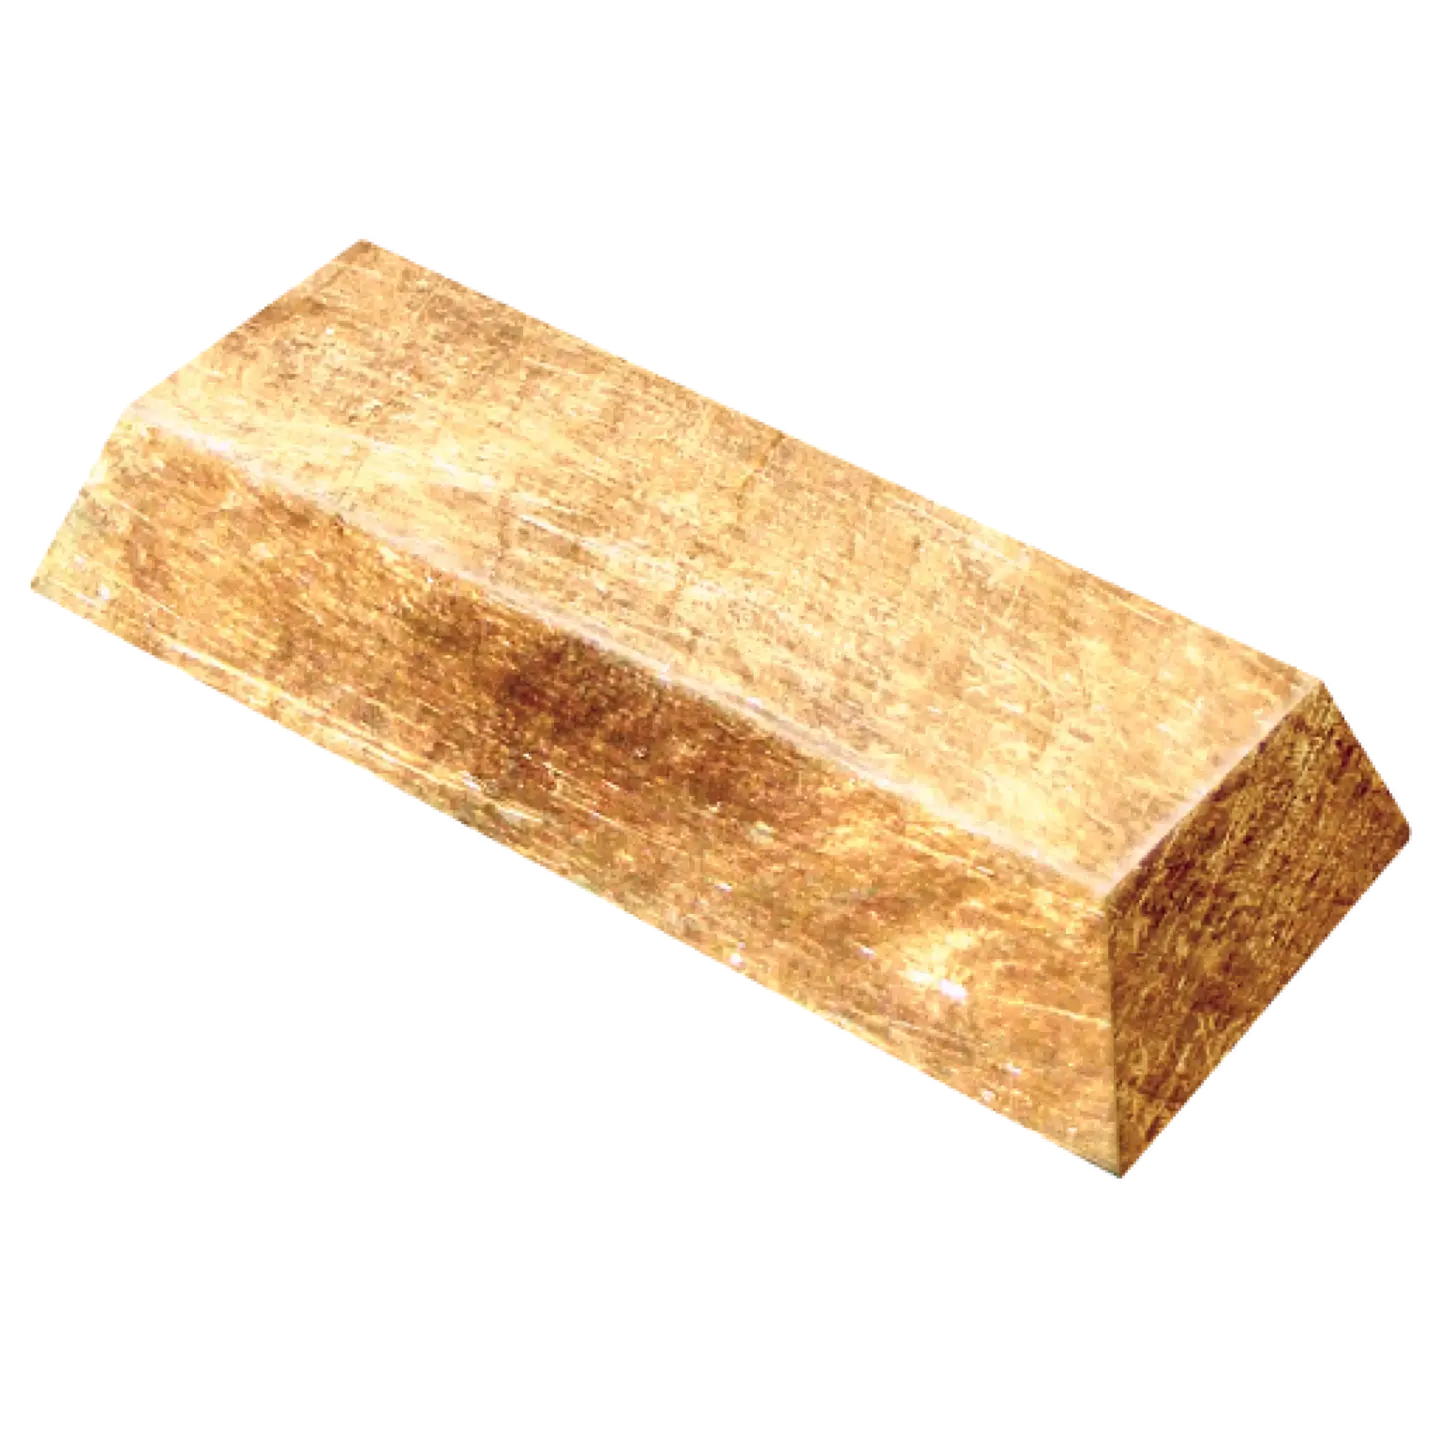
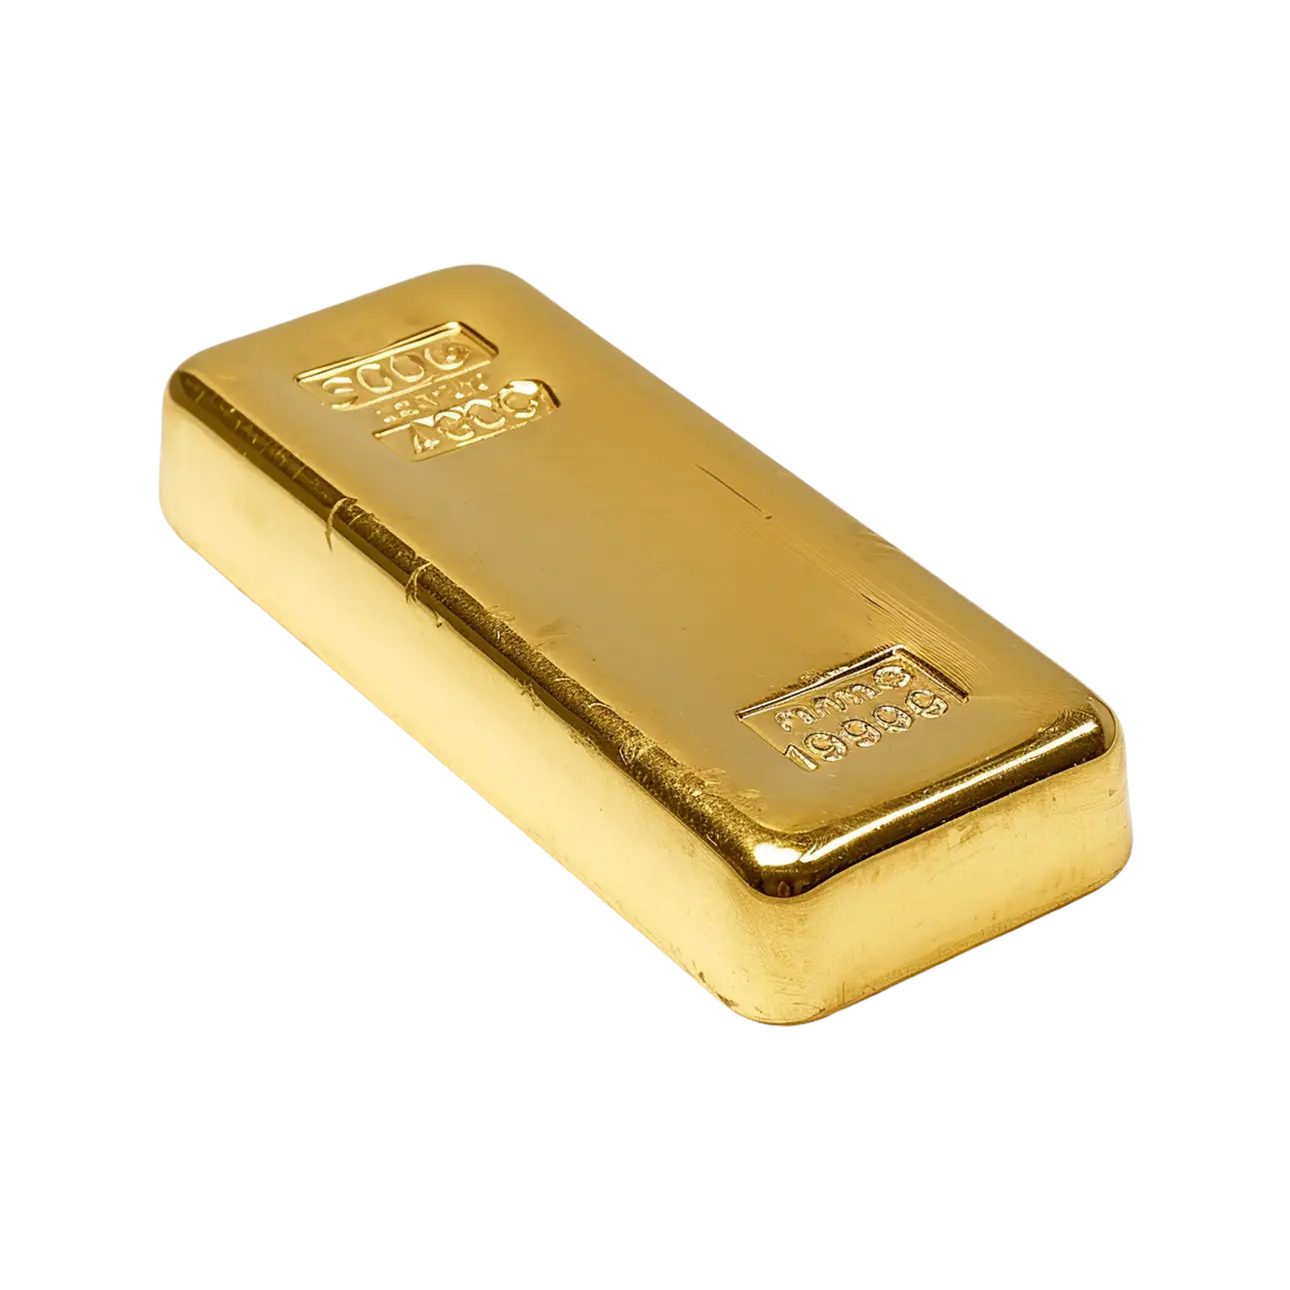
change gold

diff --git a/index.html b/index.html
@@ -679,14 +679,8 @@
     </section>
     <section id="_6" class="pad100t pad30b b9">
         <div class="in h1080M h100vh f fc _f">
-            <div class="f _16_9 fc w rel gap150">
-                <div class="_1 wrap_gold">
-                    <div class="h w rel">
-                        <div class="_1 gold"></div>
-                        <div class="_2 gold"></div>
-                        <div class="_3 gold"></div>
-                    </div>
-                </div>
+            <div class="f _16_9 fc w rel gap50">
+                <div class="_1 gold2"></div>
                 <div class="_2 top f fc gap20">
                     <p class="_1 fs18 c1 t2">
                         После прохождения курса вы

diff --git a/css/library.css b/css/library.css
@@ -21,10 +21,21 @@ library
     background: url('../img/3.webp') top no-repeat;
     background-size: contain;
     max-width:600px;
-    width:100%;
+    width:80%;
     position:absolute;
     z-index:-1;
     top:0;
+    left:50%;
+    transform:translateX(-50%);
+    height:100%;
+}
+.gold2 {
+    background: url('../img/4.webp') top no-repeat;
+    background-size: contain;
+    width:90%;
+    position:absolute;
+    z-index:-1;
+    top:30%;
     left:50%;
     transform:translateX(-50%);
     height:100%;

diff --git a/css/work.css b/css/work.css
@@ -44,7 +44,7 @@
     display:flex;
 }
 
-
+/*
 .wrap_gold {
     max-width:1000px;
     width:100%;
@@ -58,6 +58,7 @@
 .wrap_gold .rel {
     position:relative;
 }
+*/
 
 @keyframes slideUp {
     from {
